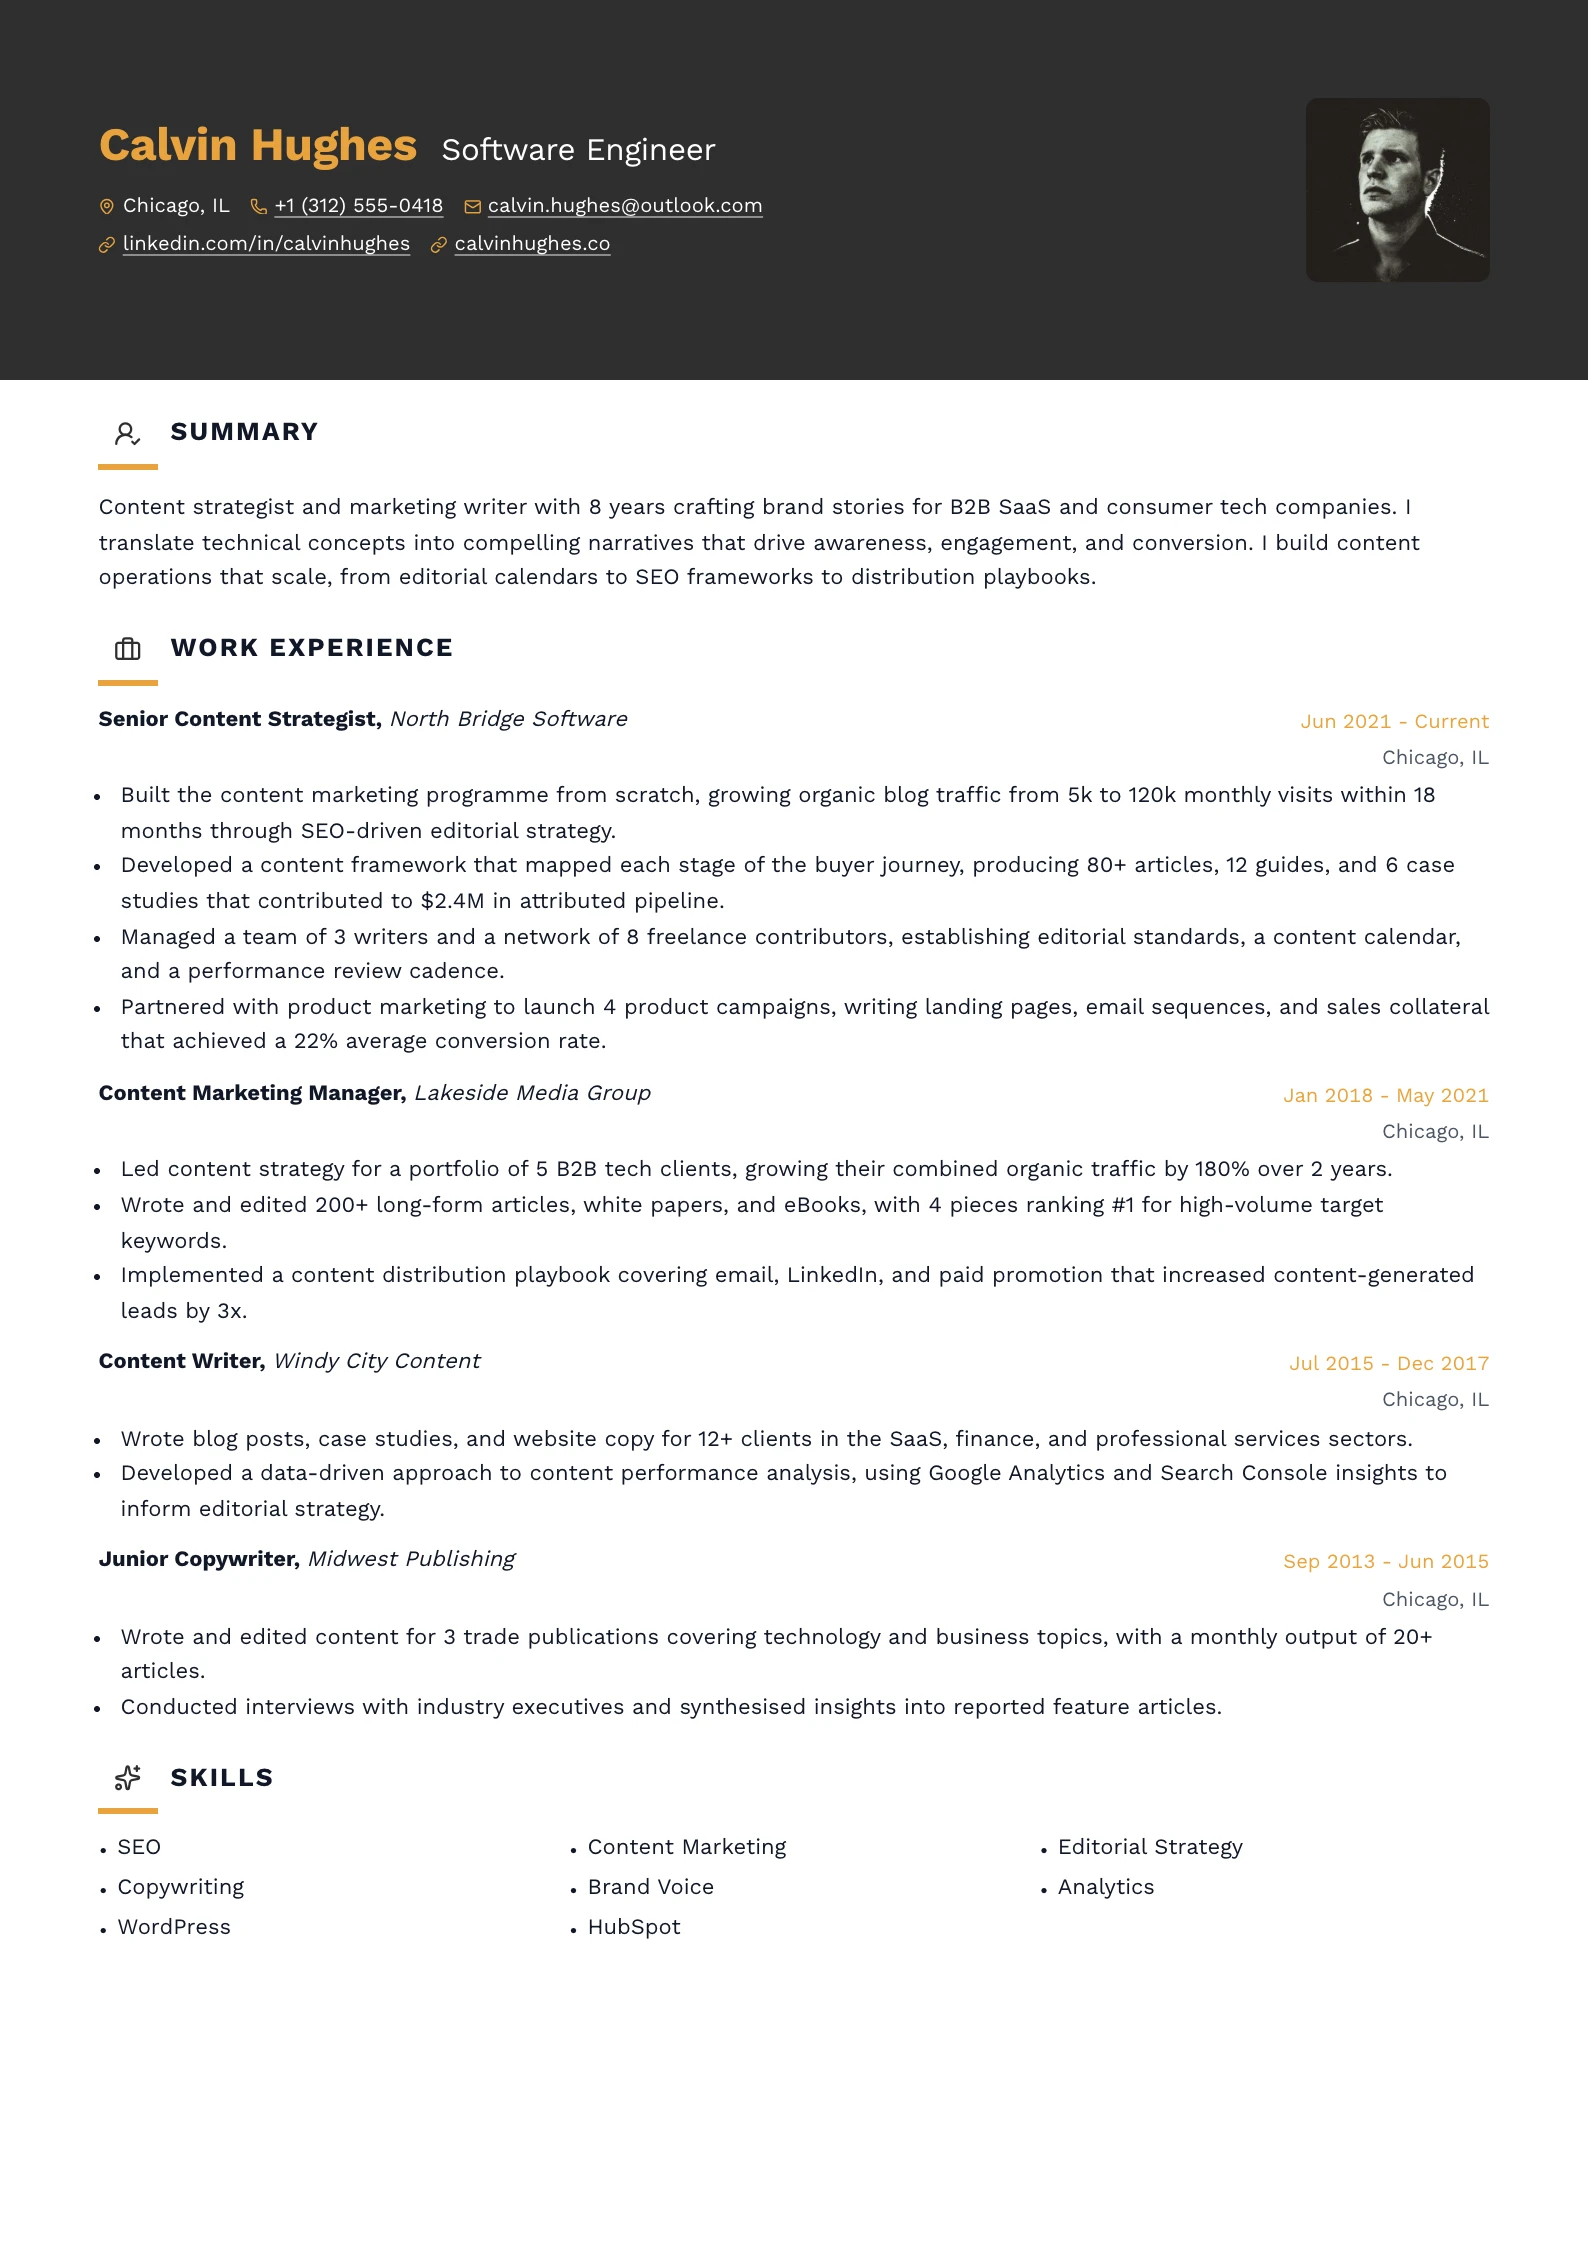
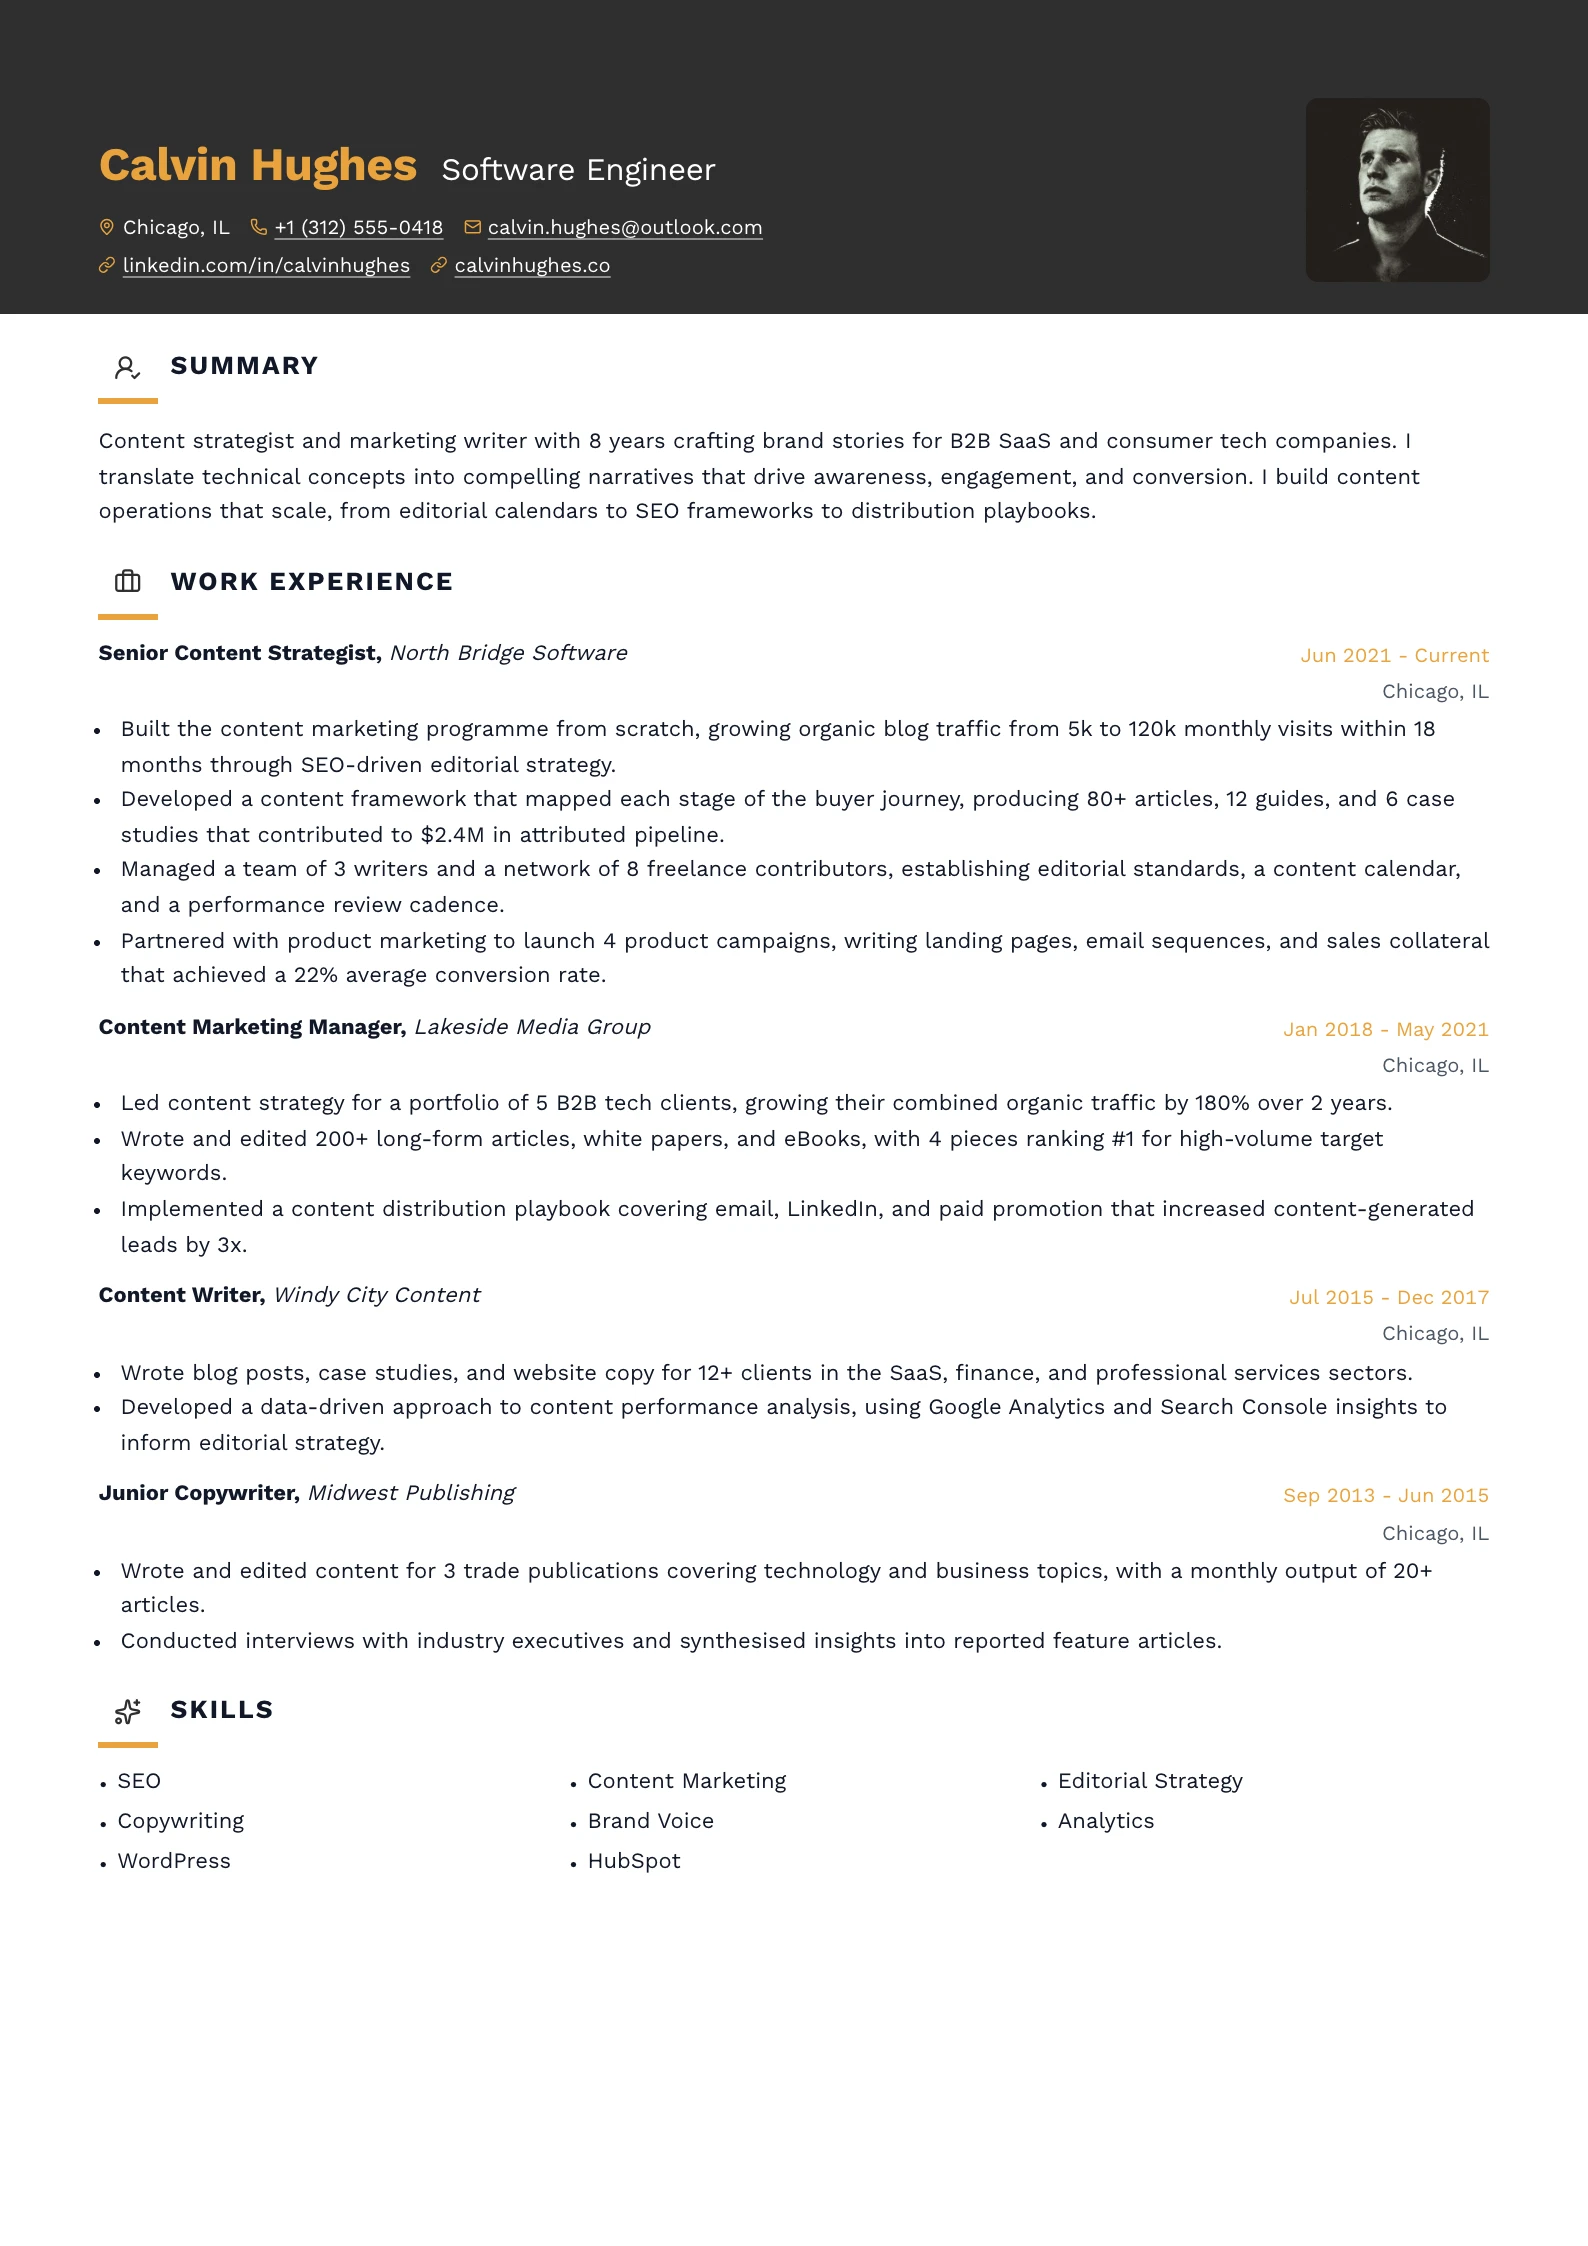
Match the band's foot to the gap above Summary
The band's bottom padding was the page margin, roughly twice the gap the body
puts above its first heading, so the header sat on a plinth. It now carries
--resume-gap-section, the same value the layout gaps its sections with.

Padding alone was not enough: the identity block was centred against a 92px
photo, so a photo taller than the name and contacts split its surplus above and
below them and the foot grew with it. The block ranges to the band's foot
instead, which makes padding-bottom the real gap whatever the photo's height,
and puts any surplus above the name, against the paper edge.

Changed region(s): [[0.0, 0.0623, 1.0, 0.8727], [0.3703, 0.7792, 0.4628, 0.8727], [0.6788, 0.7792, 0.7406, 0.8415]]

diff --git a/src/features/resume-editor/preview/layouts/marquee/styles.module.css b/src/features/resume-editor/preview/layouts/marquee/styles.module.css
@@ -145,9 +145,17 @@
    everything else in the readable on-secondary colour. */
 .header :global(.marquee-band) {
   display: flex;
-  align-items: center;
+  /* Ranged to the foot, not centred: it is what makes `padding-bottom` the real
+     gap under the contacts. Centred, a photo taller than the name and contacts
+     splits its surplus above and below them, and the foot grows with the photo.
+     Any surplus goes above the name instead, against the paper edge. */
+  align-items: flex-end;
   gap: var(--resume-gap-section);
-  padding: var(--resume-page-margin);
+  /* The foot of the band carries the same gap the body puts above the first
+     heading, so the band's bottom edge sits equidistant from the contacts and
+     from Summary. Top and sides stay the page margin. */
+  padding: var(--resume-page-margin) var(--resume-page-margin)
+    var(--resume-gap-section);
   background: var(--resume-secondary);
   color: var(--resume-on-secondary);
   print-color-adjust: exact;
